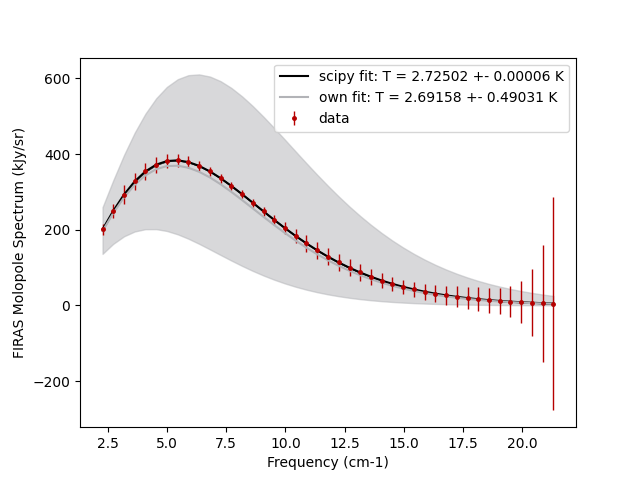
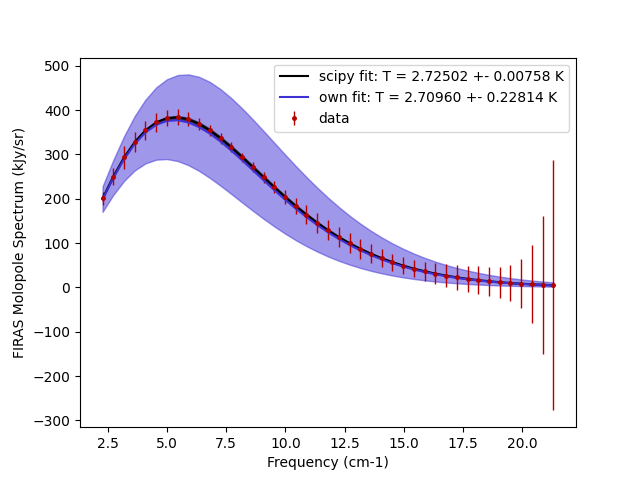
redefining scipy error as 1 std

diff --git a/src/main.py b/src/main.py
@@ -15,11 +15,13 @@ from using_scipy import fit as scipy_fit
 warnings.filterwarnings("ignore")
 
 red = "#B60000"
-grey = "#B2B3B7"
+blue = "#3E31D6"
 
 c = 29979245800  # cm s-1
 h = 6.62607015e-27  # erg Hz-1
 kB = 1.380649e-16  # erg K-1
+
+np.random.seed(42)
 
 method = choose_main_method()
 if method == "own" or method == "both":
@@ -108,7 +110,7 @@ if method == "own" or method == "both":
         y1=planck(xdata, own_pred - own_error),
         y2=planck(xdata, own_pred + own_error),
         alpha=0.5,
-        color=grey,
+        color=blue,
     )
 
 if method == "scipy" or method == "both":
@@ -139,7 +141,7 @@ if method == "own" or method == "both":
         xdata,
         planck(xdata, own_pred),
         label=f"own fit: T = {own_pred:.5f} +- {own_error:.5f} K",
-        color=grey,
+        color=blue,
     )
 
 plt.legend(loc="best")

diff --git a/src/own_algorithm.py b/src/own_algorithm.py
@@ -19,7 +19,7 @@ def fit(
     sampling_method="uniform",
     minimizing_method="rms",
     target_error=1e-5,
-    max_iterations=100000,
+    max_iterations=100000000,
 ):
     min_error = np.inf
     best_T = 0
@@ -29,6 +29,10 @@ def fit(
         # sampling for T
         if sampling_method == "uniform":
             T = np.random.uniform(min, max)
+        elif sampling_method == "normal":
+            T = np.random.normal(2.7)
+            if T < min or T > max:
+                continue
 
         # calculating the prediction for the spectrum
         try:

diff --git a/src/choosing_methods.py b/src/choosing_methods.py
@@ -19,10 +19,10 @@ def choose_main_method():
 
 
 def choose_sampling_method():
-    possibilities = ["uniform"]
+    possibilities = ["uniform", "normal"]
 
     sampling_method = input(
-        "\nEnter the corresponding number of the sampling method you want to choose:\n1: uniform\n"
+        "\nEnter the corresponding number of the sampling method you want to choose:\n1: uniform\n2: normal\n"
     )
     if sampling_method == "":
         print("No method chosen, defaulting to uniform")

diff --git a/src/using_scipy.py b/src/using_scipy.py
@@ -1,6 +1,8 @@
+import numpy as np
 from scipy.optimize import curve_fit
 
 
 def fit(func, xdata, ydata, yerrordata):
     popt, pcov = curve_fit(func, xdata, ydata, sigma=yerrordata, absolute_sigma=True)
-    return popt[0], pcov[0][0]
+    perr = np.sqrt(pcov[0][0])
+    return popt[0], perr
